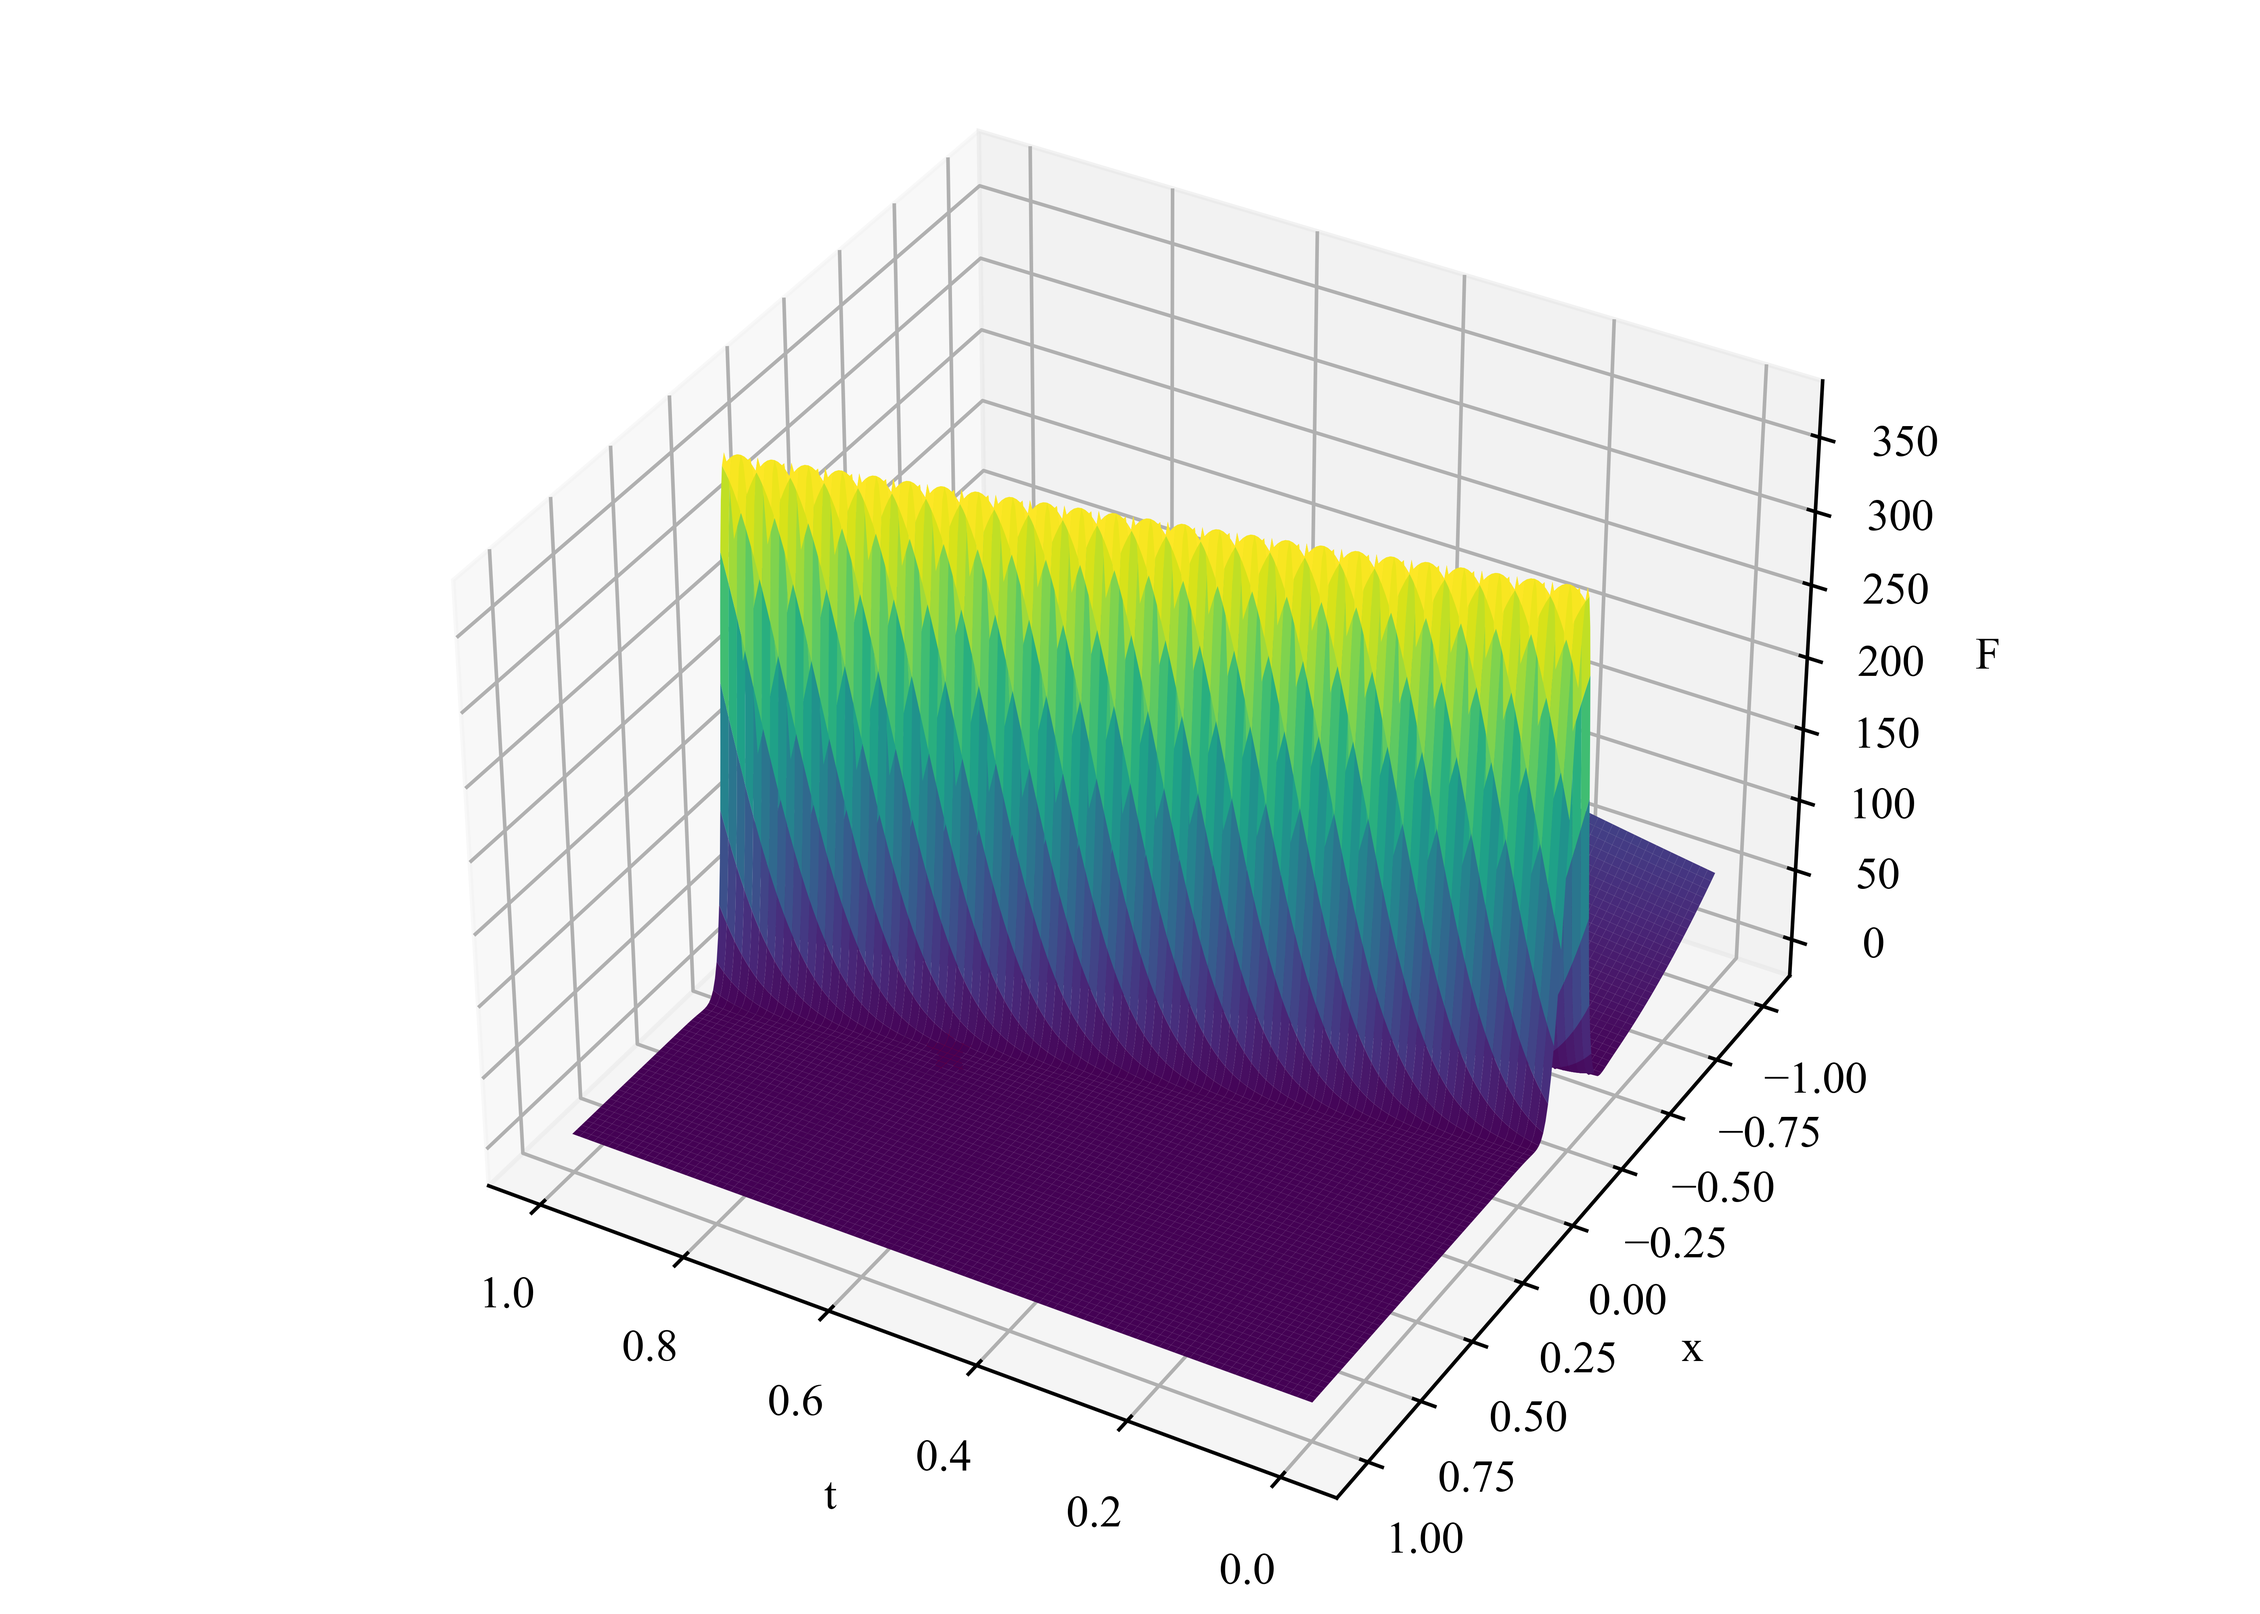
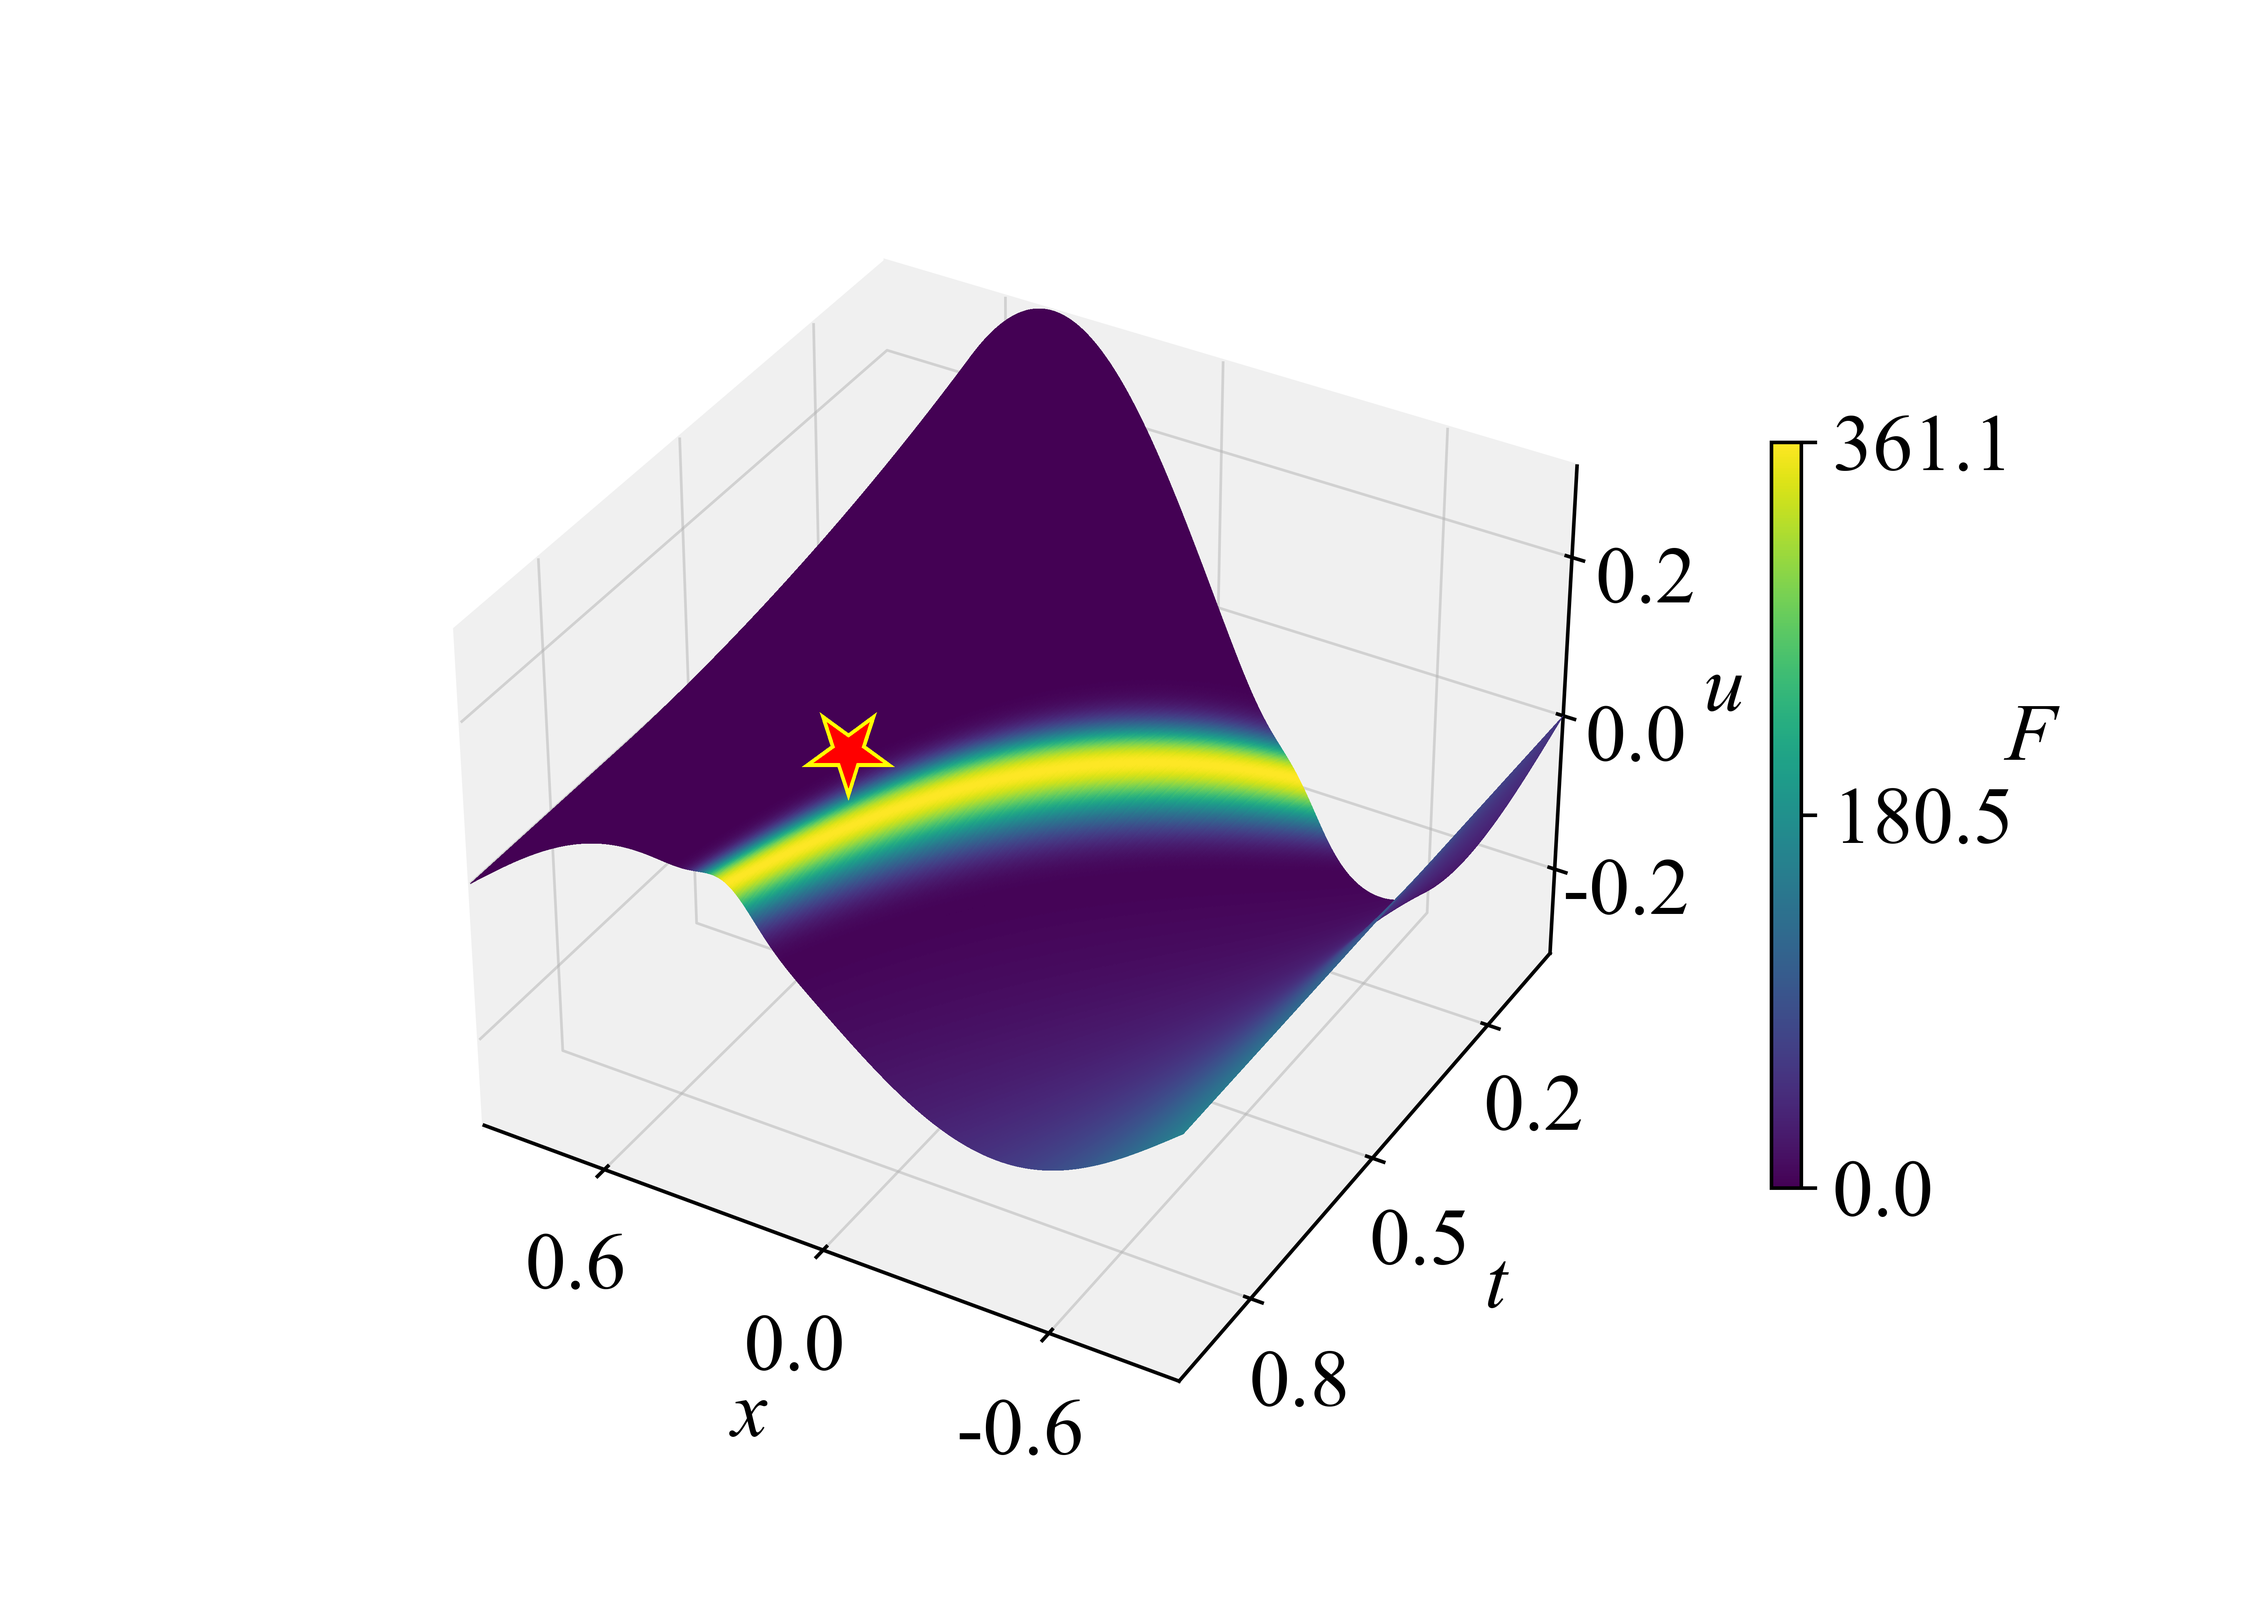
Align F6 figures with the paper objective and state layout

diff --git a/docs/problem_gallery.md b/docs/problem_gallery.md
@@ -2,7 +2,7 @@
 
 [Benchmark overview](../README.md) · [Problem definitions](problem_definitions.md) · [Reference solutions](../reference/README.md)
 
-This gallery pairs objective landscapes with views of the corresponding PDE state surfaces. Colors show the objective value F; the height coordinate u in a state-surface panel shows the PDE state. Parameterized problems include several fixed-parameter slices. F6 instead pairs a contour map with a three-dimensional objective surface; its height is F, not u.
+This gallery pairs objective landscapes with views of the corresponding PDE state surfaces. Colors show the objective value F; the height coordinate u in a state-surface panel shows the PDE state. Parameterized problems include several fixed-parameter slices.
 
 **Figure version:** F6 panels updated on 8 October 2026; other panels updated on 29 September 2026 using the stored reference fields. Variable labels follow the manuscript equations and figure captions. Stars mark representative points checked against the manuscript reference targets; they do not by themselves establish global optimality. Color limits may use quantiles and need not equal the reference objective value.
 
@@ -64,9 +64,9 @@ This gallery pairs objective landscapes with views of the corresponding PDE stat
 
 [Definition](problems/f06.md) · [Reference calculation](../reference/f06.py)
 
-| Objective landscape / decision-space slices | Objective surface |
+| Objective landscape / decision-space slices | PDE state surface colored by objective |
 | --- | --- |
-| ![F6 objective landscape](figures/f06_landscape.png) | ![F6 objective surface](figures/f06_geometry.png) |
+| ![F6 objective landscape](figures/f06_landscape.png) | ![F6 PDE state geometry](figures/f06_geometry.png) |
 
 ## F7
 

diff --git a/docs/problem_definitions.md b/docs/problem_definitions.md
@@ -8,7 +8,7 @@ The following sections present the manuscript's problem descriptions, PDEs,
 initial/boundary conditions, objectives, constraints and reference solutions.
 Implementation conventions are stated separately within each problem.
 
-**Figure version:** F6 objective panels updated on 8 October 2026; the other
+**Figure version:** F6 panels updated on 8 October 2026; the other
 figures were updated on 29 September 2026 using the stored reference
 fields. Variable labels and representative reference markers follow the
 manuscript. The [problem gallery](problem_gallery.md) describes plotting
@@ -443,9 +443,9 @@ See the [dataset instructions](../dataset/README.md) for data preparation and th
 
 $F_6$ couples an advection-diffusion equation with an objective that measures the state deviation from a time-dependent background. The objective locates the right-side response at 5% of the packet amplitude around a target time.
 
-| Objective landscape / decision-space slices | Objective surface |
+| Objective landscape / decision-space slices | PDE state surface colored by objective |
 | --- | --- |
-| ![F6 objective landscape](figures/f06_landscape.png) | ![F6 objective surface](figures/f06_geometry.png) |
+| ![F6 objective landscape](figures/f06_landscape.png) | ![F6 PDE state geometry](figures/f06_geometry.png) |
 
 ### Problem definition
 
